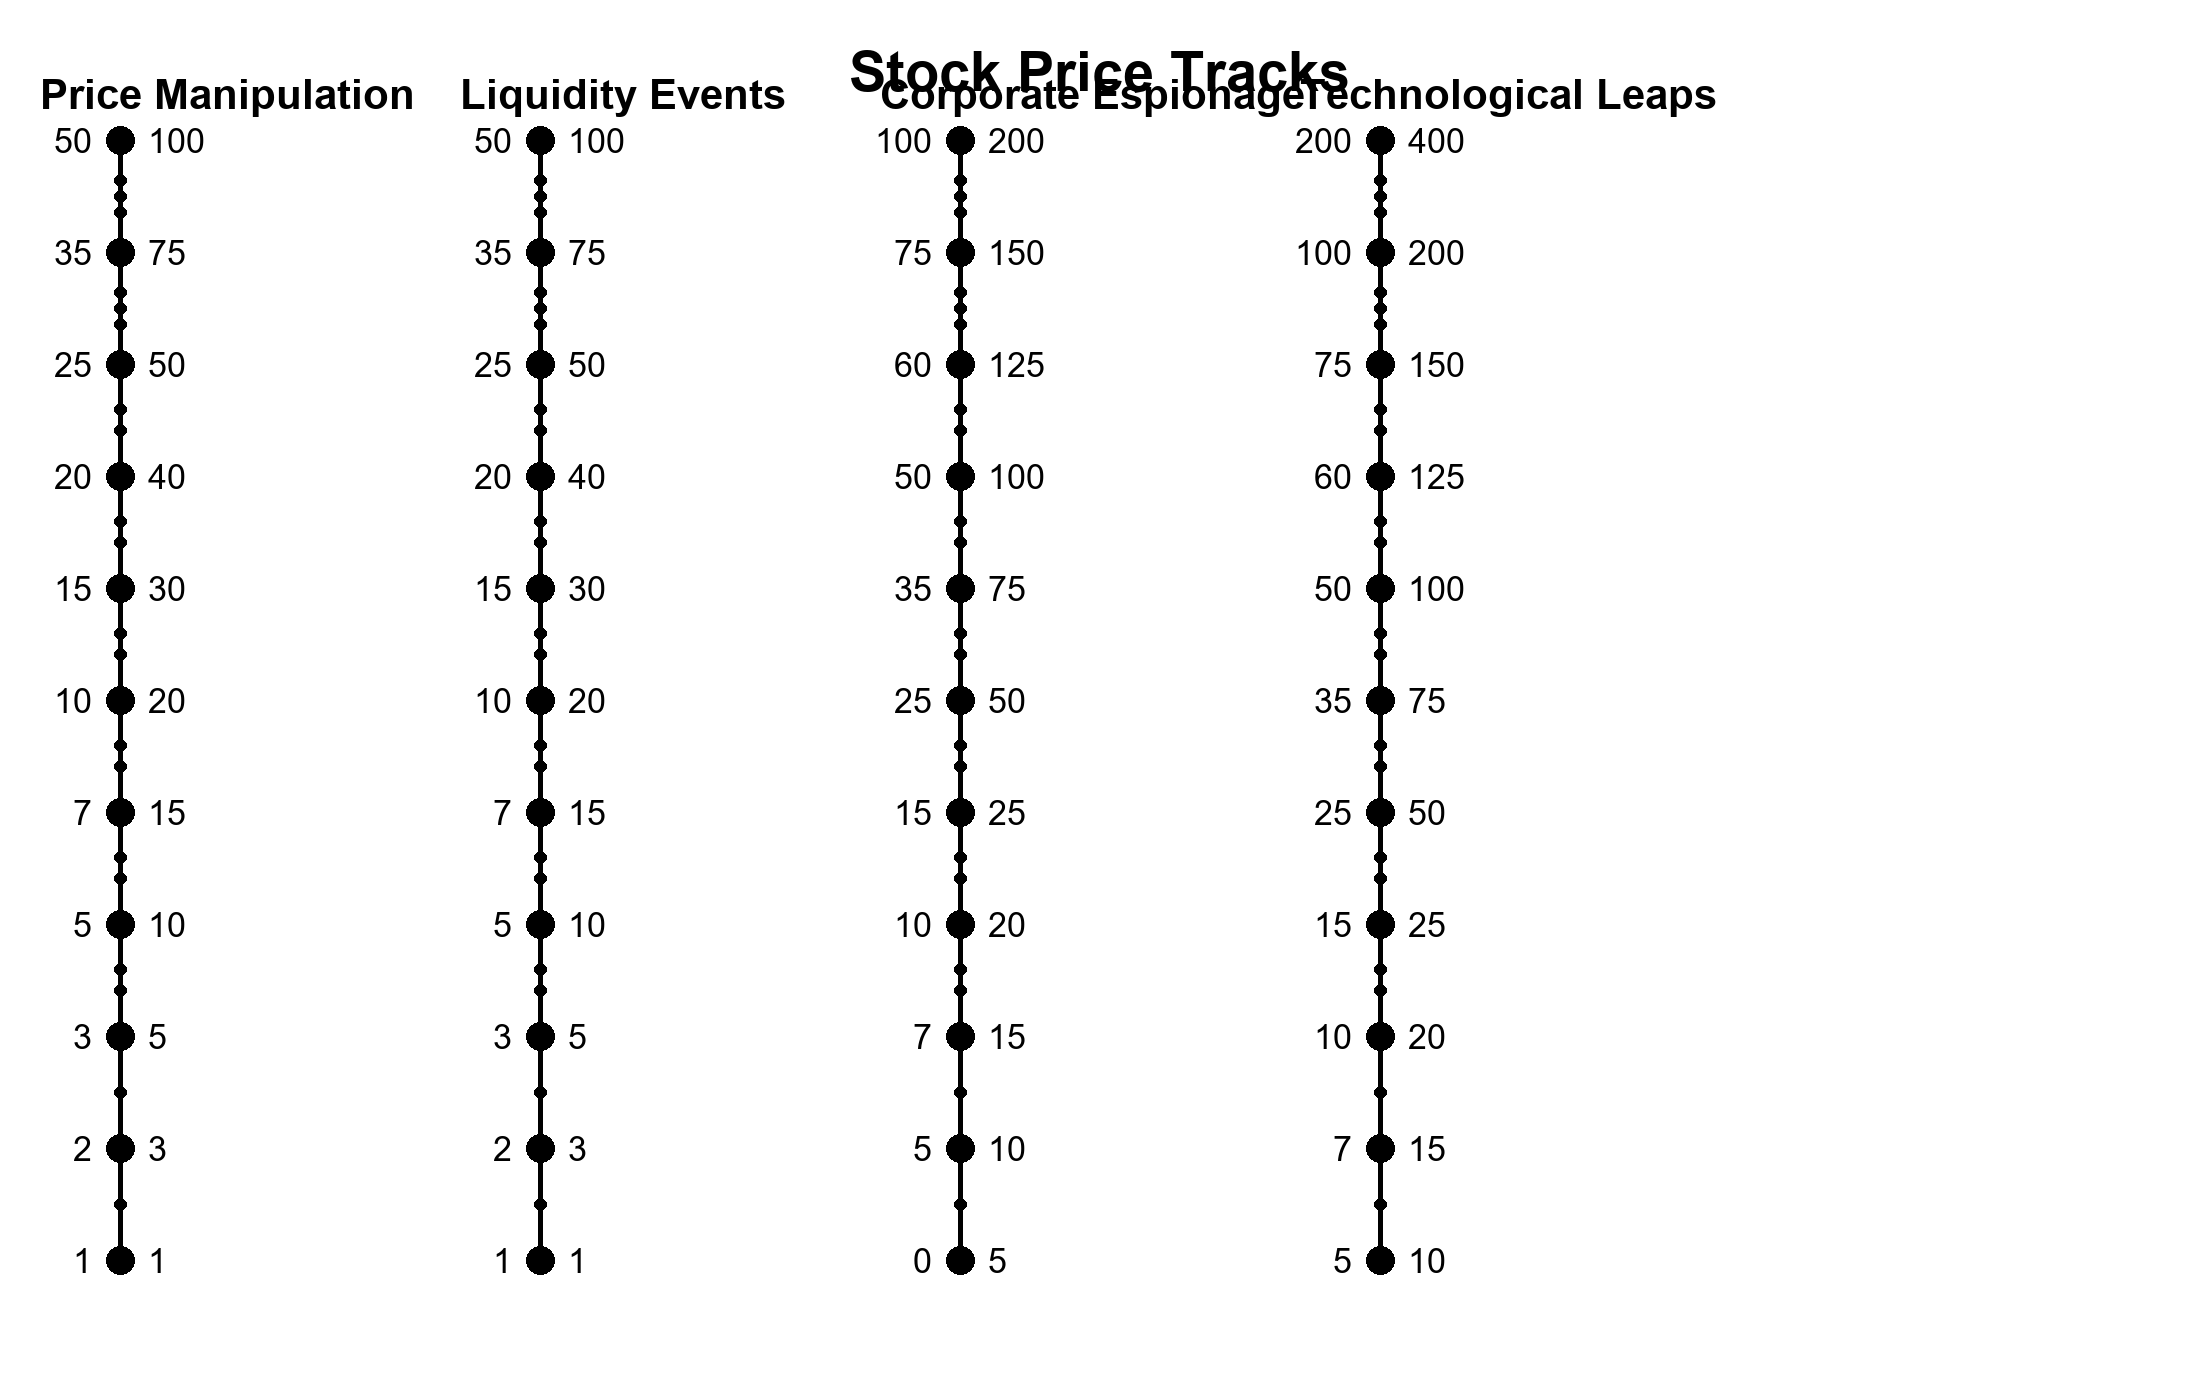
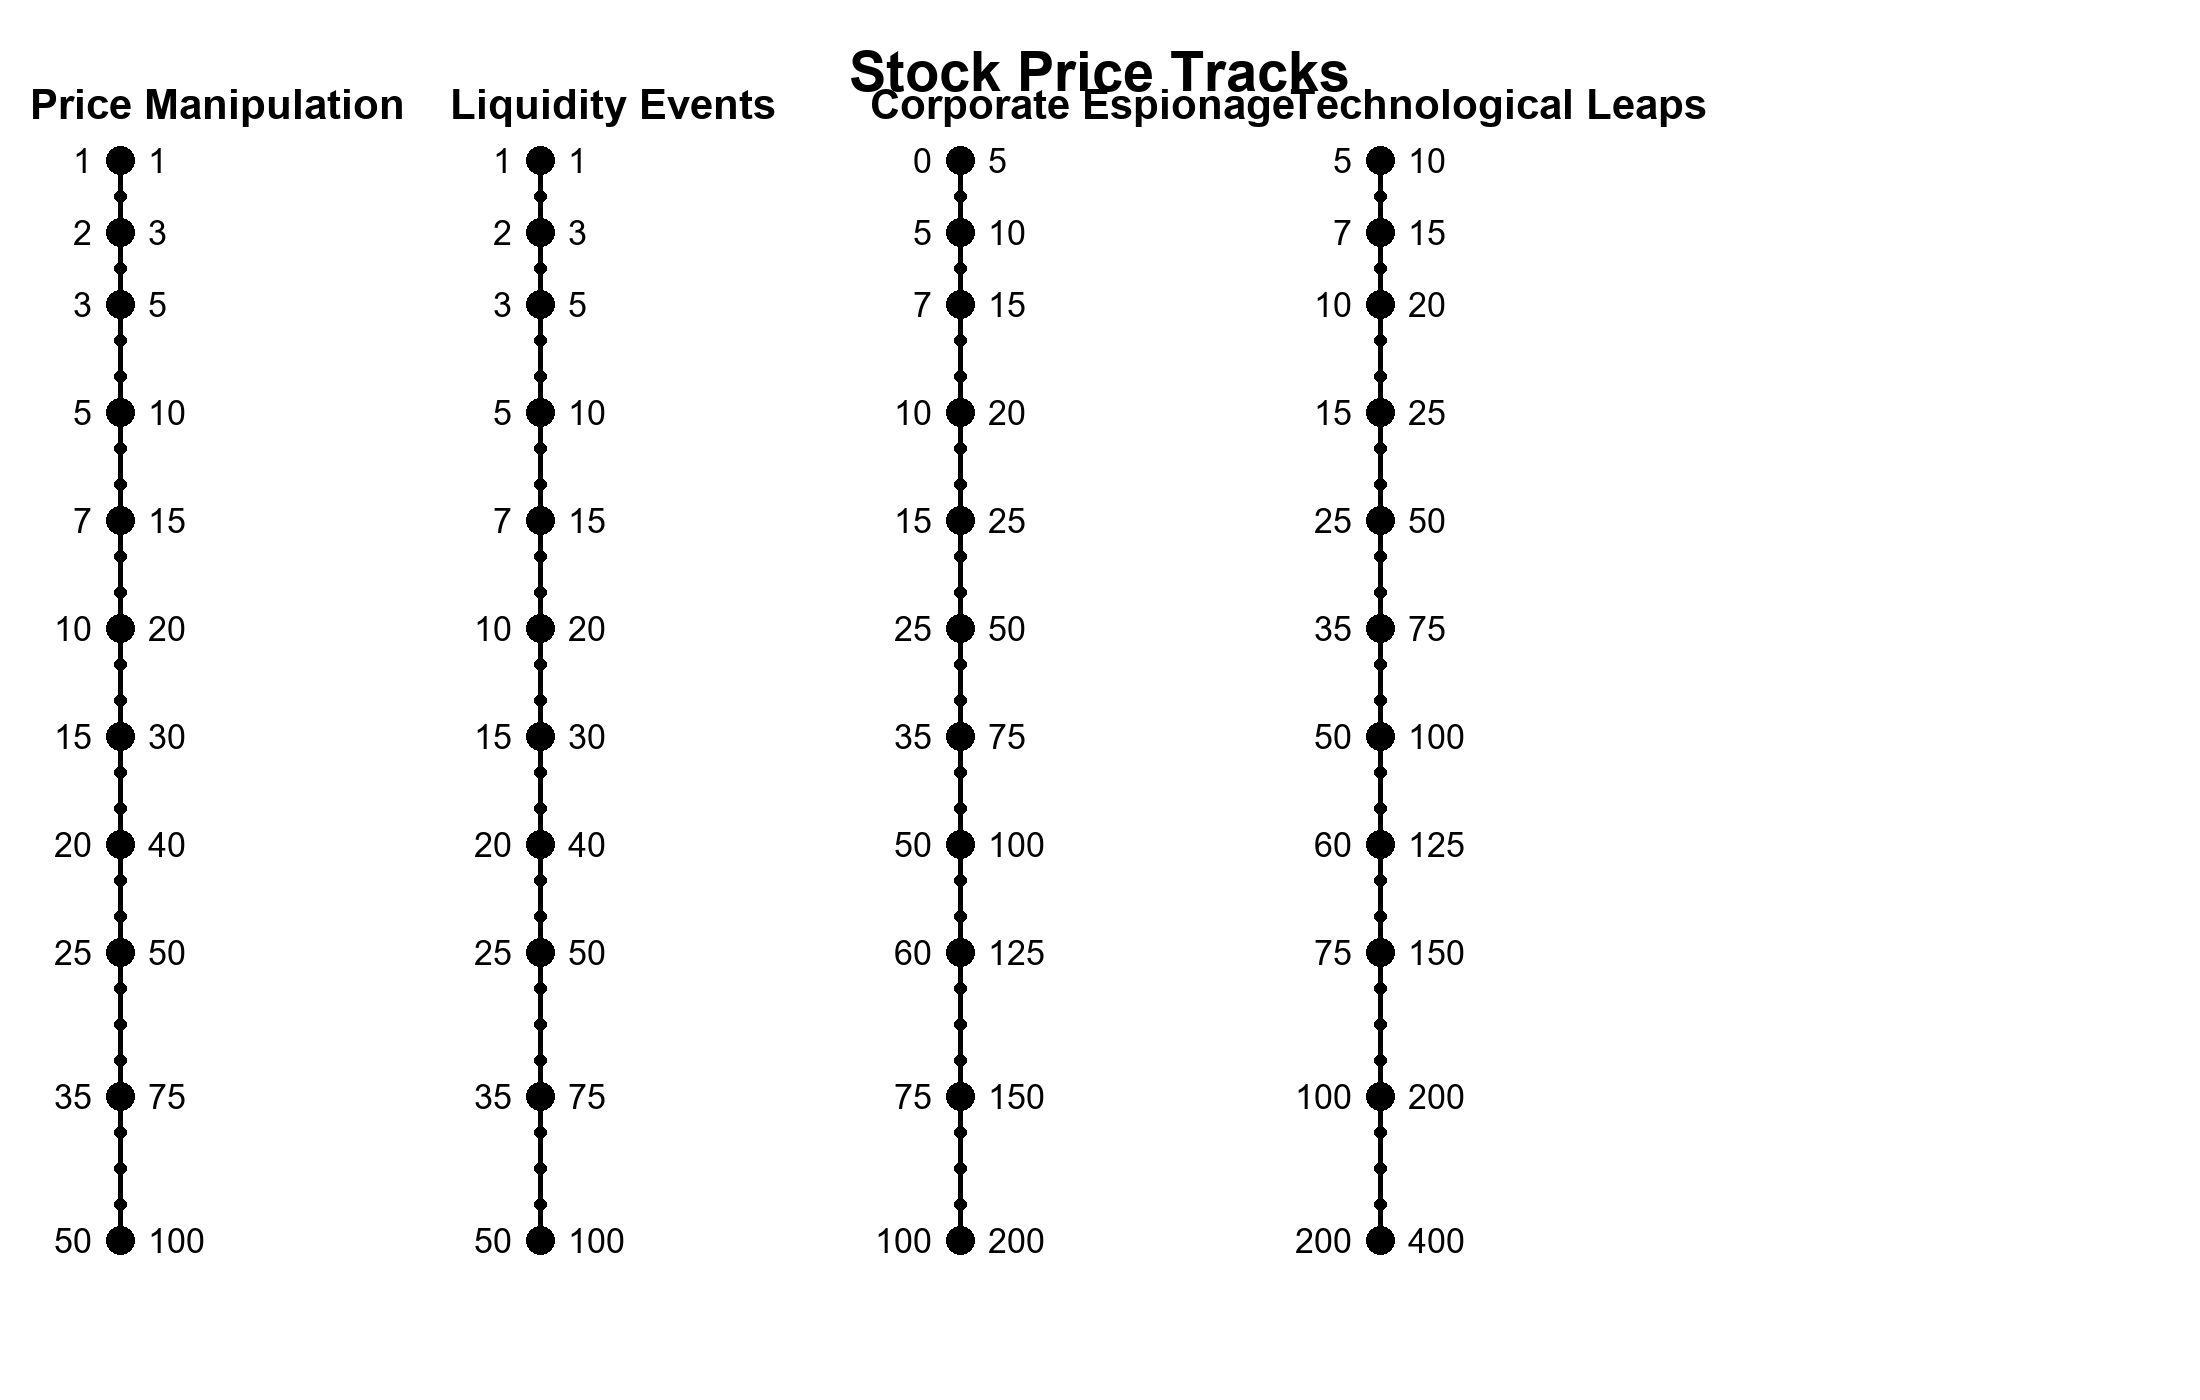
Put equal space between the intervals

diff --git a/generate_price_tracks.py b/generate_price_tracks.py
@@ -2,7 +2,14 @@
 """
 generate_price_tracks.py
 
-Vertical price tracks renderer.
+Vertical price tracks renderer with CONSISTENT spacing per interval "tick".
+
+Interpretation:
+- For each segment between tier i and tier i+1:
+    intervals_to_next = N means there are N small dots between the big dots.
+  That implies (N + 1) equal steps from big dot to next big dot.
+- We make each step the same pixel distance, so segments with more intervals
+  take proportionally more vertical space.
 
 Input TSV:
   ./price_tiers.tsv
@@ -41,7 +48,7 @@ CANVAS_W = 2200
 CANVAS_H = 1400
 
 MARGIN_X = 120
-MARGIN_Y = 140
+MARGIN_Y = 160
 
 TRACK_GAP_X = 420
 TRACK_HEIGHT = CANVAS_H - 2 * MARGIN_Y
@@ -81,10 +88,7 @@ def get_font(size: int, bold: bool = False) -> ImageFont.ImageFont:
                 r"C:\Windows\Fonts\segoeui.ttf",
             ]
 
-    if bold:
-        candidates += ["DejaVuSans-Bold.ttf"]
-    else:
-        candidates += ["DejaVuSans.ttf"]
+    candidates += ["DejaVuSans-Bold.ttf" if bold else "DejaVuSans.ttf"]
 
     for fp in candidates:
         try:
@@ -113,22 +117,32 @@ def _parse_int(cell: str) -> int:
 def parse_tiers_tsv(path: Path) -> Dict[str, List[Tier]]:
     raw = path.read_text(encoding="utf-8")
     lines = [ln for ln in raw.splitlines() if ln.strip()]
-    reader = csv.reader(lines, delimiter="\t")
+    if not lines:
+        raise ValueError(f"Input TSV is empty: {path}")
 
-    header = next(reader)
+    reader = csv.reader(lines, delimiter="\t")
+    header = next(reader, None)
+    if not header:
+        raise ValueError("Missing header row.")
+
     header_map = {_clean(h): i for i, h in enumerate(header)}
 
     prefixes = [
         h[:-len("-prices")]
         for h in header
-        if h.endswith("-prices") and not h.endswith("-actions-prices")
+        if _clean(h).endswith("-prices") and not _clean(h).endswith("-actions-prices")
     ]
+    if not prefixes:
+        raise ValueError("Could not find any '<prefix>-prices' columns (excluding '*-actions-prices').")
 
     out: Dict[str, List[Tier]] = {p: [] for p in prefixes}
 
     for row in reader:
         while len(row) < len(header):
             row.append("")
+        if all(_clean(c) == "" for c in row):
+            continue
+
         for p in prefixes:
             out[p].append(
                 Tier(
@@ -138,7 +152,52 @@ def parse_tiers_tsv(path: Path) -> Dict[str, List[Tier]]:
                 )
             )
 
+    for p, tiers in out.items():
+        if len(tiers) < 2:
+            raise ValueError(f"Prefix '{p}' needs at least 2 tiers.")
+        for i, t in enumerate(tiers):
+            if t.price <= 0:
+                raise ValueError(f"Prefix '{p}' has non-positive price at row {i+1}: {t.price}")
+
     return out
+
+
+# ----------------------------
+# Geometry helpers
+# ----------------------------
+
+def compute_tier_positions_y(
+    tiers: List[Tier],
+    y_top: int,
+    y_bottom: int,
+) -> List[int]:
+    """
+    Compute y positions for big dots using consistent step spacing.
+
+    Total "steps" = sum over segments (intervals_to_next + 1).
+    (The +1 is the jump from big dot to next big dot, with intervals small dots between.)
+    """
+    if len(tiers) < 2:
+        return [(y_top + y_bottom) // 2]
+
+    segment_steps = [max(0, t.intervals_to_next) + 1 for t in tiers[:-1]]
+    total_steps = sum(segment_steps)
+    if total_steps <= 0:
+        # Fallback: evenly spaced
+        n = len(tiers)
+        step_px = (y_bottom - y_top) / (n - 1)
+        return [int(round(y_top + i * step_px)) for i in range(n)]
+
+    step_px = (y_bottom - y_top) / total_steps
+
+    ys: List[int] = [y_top]
+    cur = float(y_top)
+    for seg in segment_steps:
+        cur += seg * step_px
+        ys.append(int(round(cur)))
+
+    # ys length = len(tiers)
+    return ys
 
 
 # ----------------------------
@@ -147,7 +206,12 @@ def parse_tiers_tsv(path: Path) -> Dict[str, List[Tier]]:
 
 def generate_price_tracks() -> None:
     if not INPUT_TSV_PATH.exists():
-        raise FileNotFoundError(f"Missing {INPUT_TSV_PATH.resolve()}")
+        cwd = Path.cwd().resolve()
+        raise FileNotFoundError(
+            f"Missing input TSV: {INPUT_TSV_PATH.resolve()}\n"
+            f"Current working directory: {cwd}\n"
+            f"Fix: place the file at '{cwd / INPUT_TSV_PATH}'."
+        )
 
     tiers_by_prefix = parse_tiers_tsv(INPUT_TSV_PATH)
 
@@ -159,14 +223,18 @@ def generate_price_tracks() -> None:
         "tt": "Technological Leaps",
     }
 
+    # Ensure we have all 4 (or fail loudly)
+    missing = [p for p in order if p not in tiers_by_prefix]
+    if missing:
+        raise ValueError(f"Missing required prefixes in TSV: {missing}. Found: {sorted(tiers_by_prefix.keys())}")
+
     img = Image.new("RGB", (CANVAS_W, CANVAS_H), "white")
     draw = ImageDraw.Draw(img)
 
     title_font = get_font(56, bold=True)
     label_font = get_font(42, bold=True)
-    num_font = get_font(34)
+    num_font = get_font(34, bold=False)
 
-    # Title
     title = "Stock Price Tracks"
     tb = draw.textbbox((0, 0), title, font=title_font)
     draw.text(
@@ -176,59 +244,57 @@ def generate_price_tracks() -> None:
         fill="black",
     )
 
-    base_y_top = MARGIN_Y
-    base_y_bottom = MARGIN_Y + TRACK_HEIGHT
+    y_top = MARGIN_Y
+    y_bottom = CANVAS_H - MARGIN_Y
 
     for i, pref in enumerate(order):
         tiers = tiers_by_prefix[pref]
-        n = len(tiers)
-
         x = MARGIN_X + i * TRACK_GAP_X
 
-        # Track name
-        draw.text((x - 80, base_y_top - 70), names[pref], font=label_font, fill="black")
+        # Label
+        draw.text((x - 90, y_top - 80), names[pref], font=label_font, fill="black")
 
-        # Vertical line
-        draw.line((x, base_y_top, x, base_y_bottom), fill="black", width=LINE_W)
+        # Track line
+        draw.line((x, y_top, x, y_bottom), fill="black", width=LINE_W)
 
-        step = TRACK_HEIGHT / (n - 1)
+        # Big-dot Y positions computed by step counts
+        big_ys = compute_tier_positions_y(tiers, y_top=y_top, y_bottom=y_bottom)
 
-        ys = [int(base_y_bottom - j * step) for j in range(n)]
-
-        for j, (y, tier) in enumerate(zip(ys, tiers)):
+        for j, (y, tier) in enumerate(zip(big_ys, tiers)):
             # Big dot
             draw.ellipse(
                 (x - BIG_DOT_R, y - BIG_DOT_R, x + BIG_DOT_R, y + BIG_DOT_R),
                 fill="black",
             )
 
-            # Numbers
-            ap = str(tier.action_price)
-            pr = str(tier.price)
+            # Labels: left = action_price, right = price
+            left_txt = str(tier.action_price)
+            right_txt = str(tier.price)
 
-            ab = draw.textbbox((0, 0), ap, font=num_font)
-            draw.text((x - BIG_DOT_R - 14 - (ab[2] - ab[0]), y - 18), ap, font=num_font, fill="black")
-            draw.text((x + BIG_DOT_R + 14, y - 18), pr, font=num_font, fill="black")
+            lb = draw.textbbox((0, 0), left_txt, font=num_font)
+            ltw = lb[2] - lb[0]
+            draw.text((x - BIG_DOT_R - 14 - ltw, y - 18), left_txt, font=num_font, fill="black")
+            draw.text((x + BIG_DOT_R + 14, y - 18), right_txt, font=num_font, fill="black")
 
-            # Small dots to next tier
-            if j < n - 1:
-                n_small = tier.intervals_to_next
+            # Small dots between this big dot and next big dot
+            if j < len(tiers) - 1:
+                n_small = max(0, int(tier.intervals_to_next))
                 if n_small > 0:
-                    y2 = ys[j + 1]
-                    seg_top = y - BIG_DOT_R - 10
-                    seg_bot = y2 + BIG_DOT_R + 10
-                    seg_h = seg_bot - seg_top
+                    y_next = big_ys[j + 1]
 
+                    # We want (n_small + 1) equal steps from big to next big.
+                    # Place small dots at 1..n_small steps along the segment.
+                    total_steps = n_small + 1
                     for k in range(1, n_small + 1):
-                        t = k / (n_small + 1)
-                        sy = int(seg_top + t * seg_h)
+                        t = k / total_steps
+                        sy = int(round(y + t * (y_next - y)))
                         draw.ellipse(
                             (x - SMALL_DOT_R, sy - SMALL_DOT_R, x + SMALL_DOT_R, sy + SMALL_DOT_R),
                             fill="black",
                         )
 
     OUTPUT_PNG_PATH.parent.mkdir(parents=True, exist_ok=True)
-    img.save(OUTPUT_PNG_PATH)
+    img.save(OUTPUT_PNG_PATH, format="PNG")
     print(f"Wrote {OUTPUT_PNG_PATH.resolve()}")
 
 
